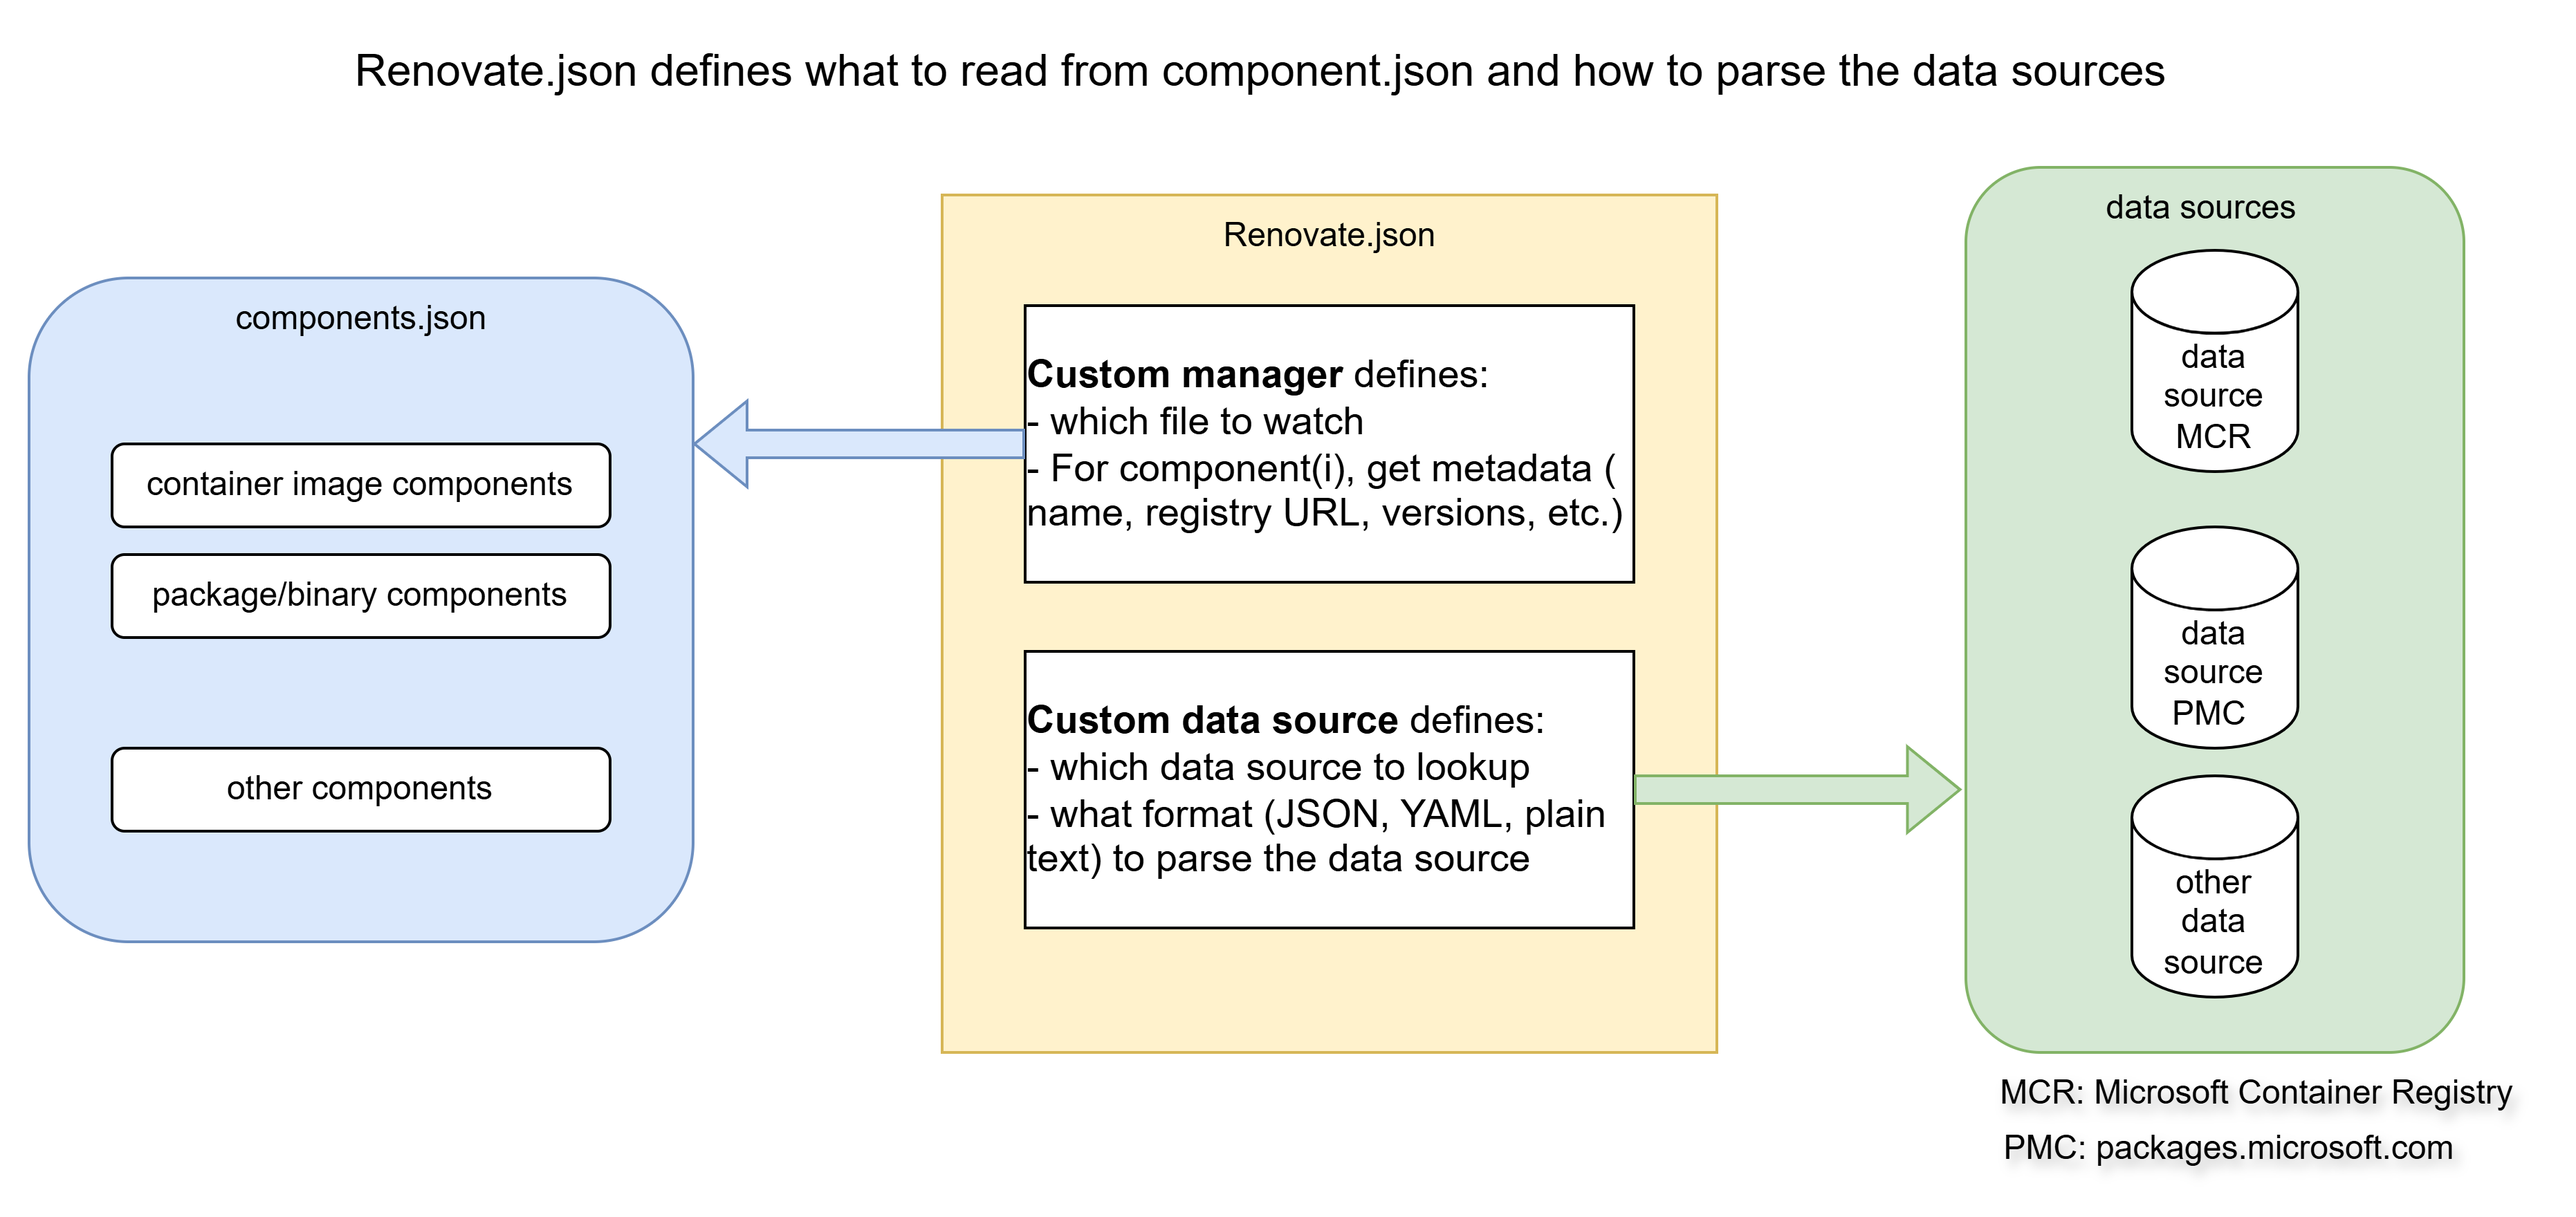
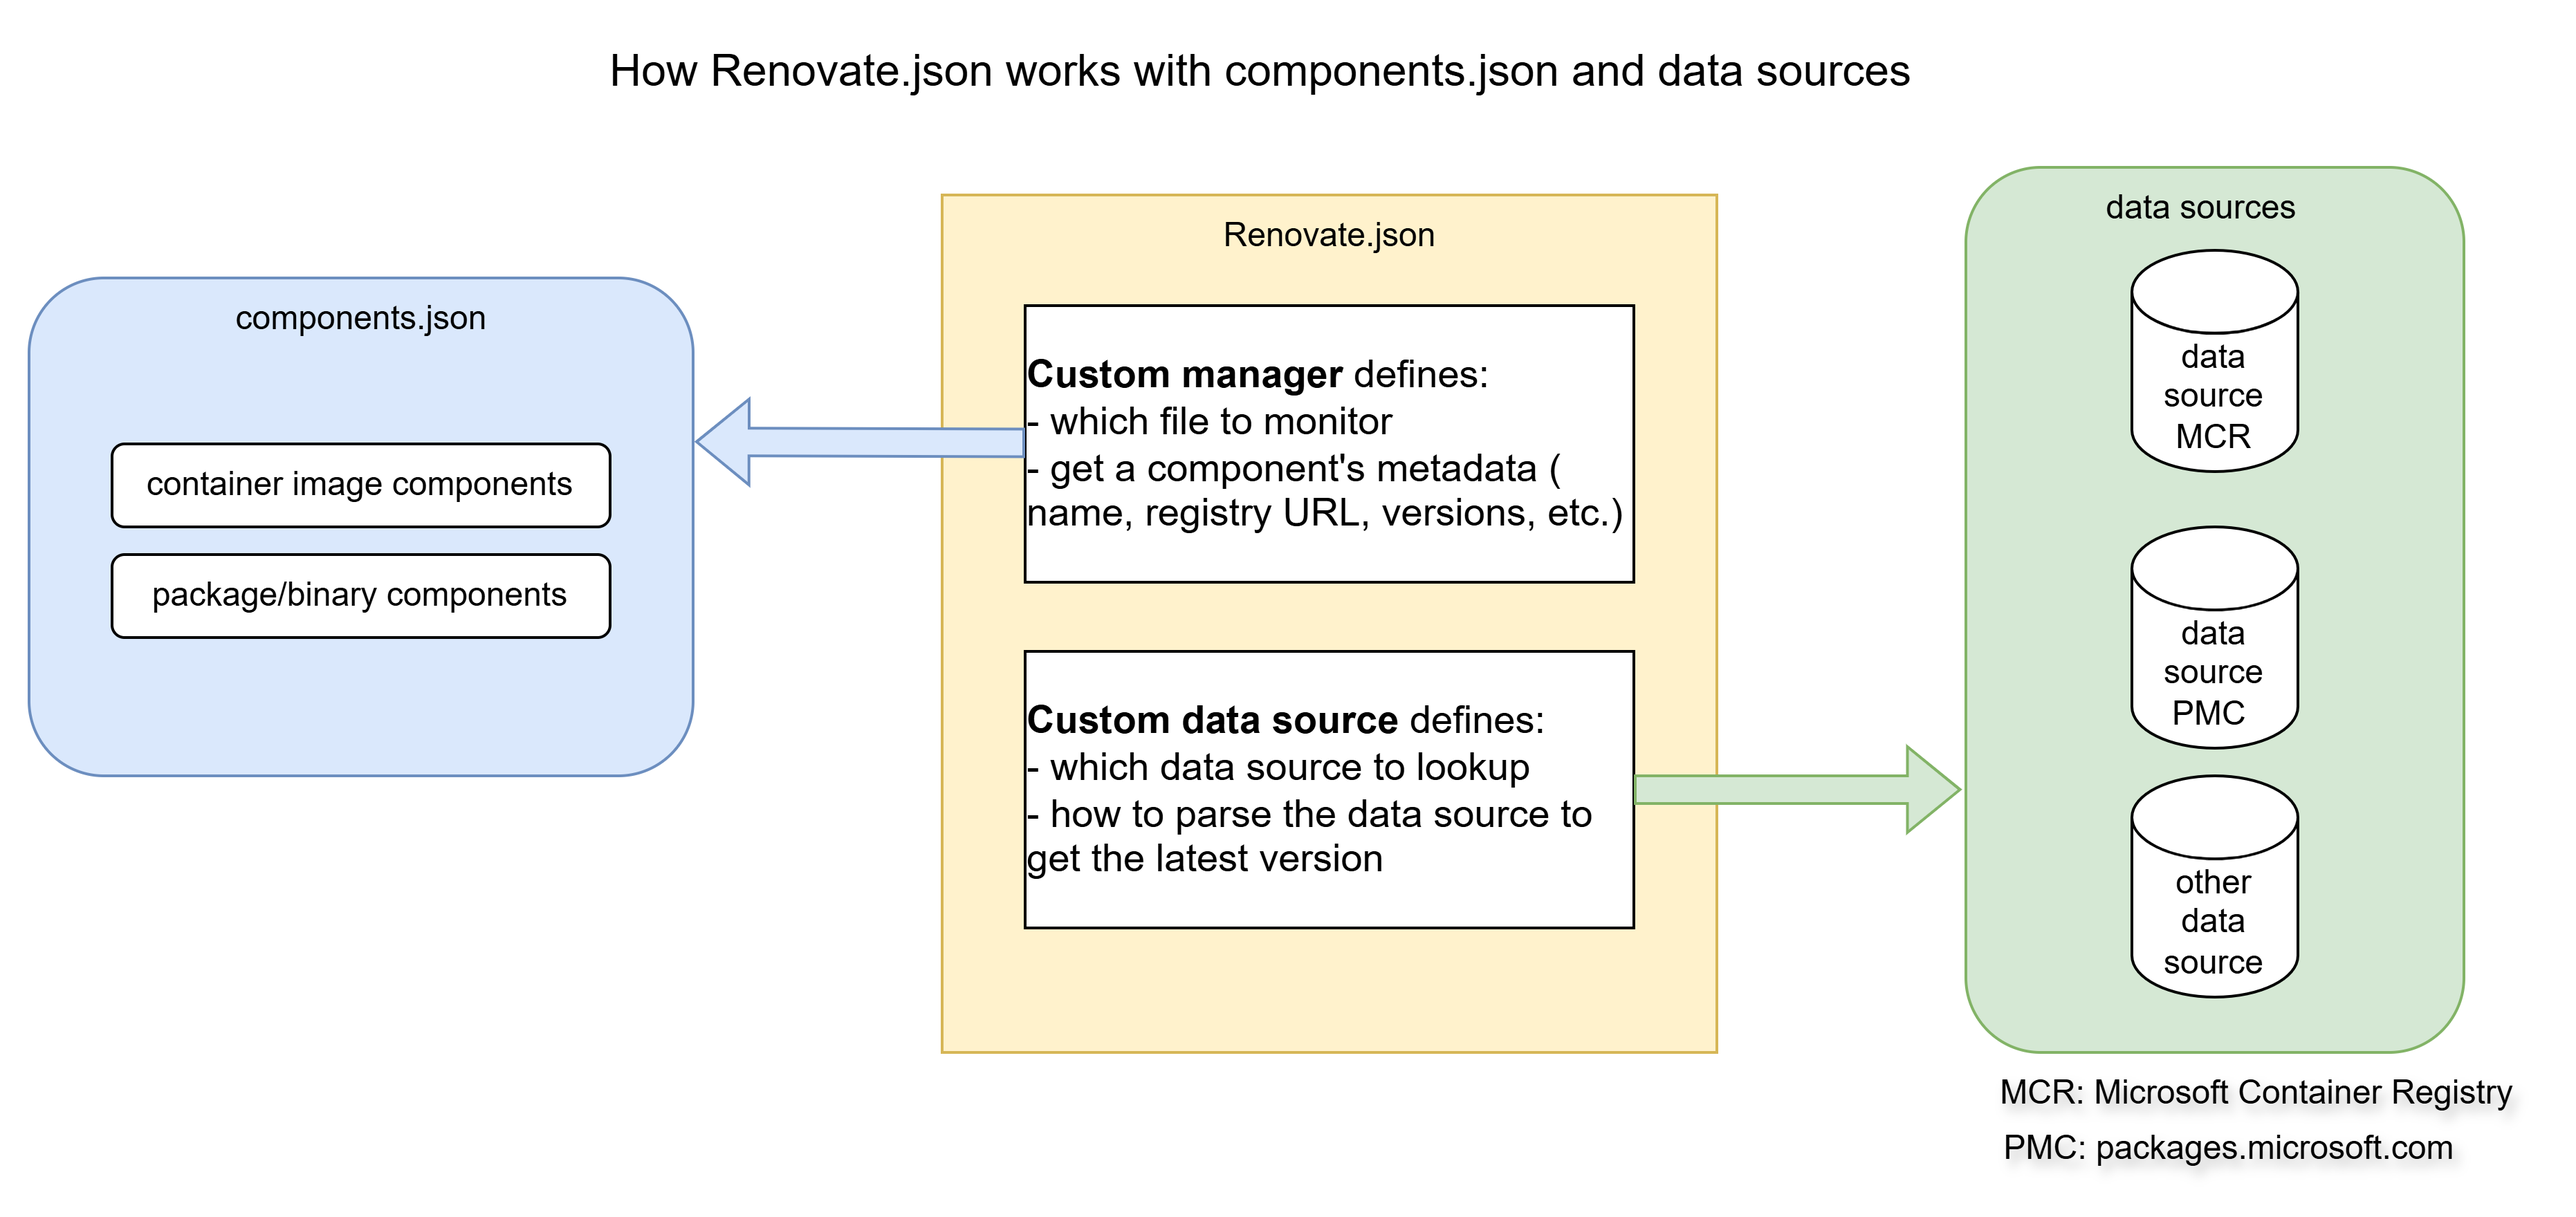
update readme and image

diff --git a/parts/linux/cloud-init/artifacts/README-COMPONENTS.md b/parts/linux/cloud-init/artifacts/README-COMPONENTS.md
@@ -8,10 +8,10 @@ The `components.json` file centralizes the management of all components needed f
 
 ## Schema of components.json
 The `components.json` file defines two types of components: `containerImages` and `packages`.
-- `ContainerImages` are container images that will be cached during VHD build time and will run at node provisioning time. The container Images URL are mostly mcr as of now June 2024.
+- `ContainerImages` are container images that will be cached during VHD build time and will run at node provisioning time. The container Images are all hosted in MCR as of Sept 2024.
 - `Packages` are packages that could be downloaded through apt-get (Ubuntu), http file download URL or dnf (Mariner). Additional methods such as OCI MCR could be added in the future.
 
-Please refer to [components.cue](../../../../schemas/components.cue) for the most update-to-date schema in case this doc is not current.
+Please refer to [components.cue](../../../../schemas/components.cue) for the most update-to-date schema in case the schema in this doc is not current.
 
 
 ### ContainerImages

diff --git a/.github/README-RENOVATE.md b/.github/README-RENOVATE.md
@@ -7,7 +7,7 @@ For a general Renovate introductions, please read this wiki. https://msazure.vis
 This readme file is specifically describing what the renovate.json for AgentBaker is doing and how to edit it when needed.
 There are 3 major blocks in the renovate.json configurations, namely `package rules`, `custom managers` and `custom datasources`.
 
-This diagram describes how Renovate.json is used to define how Renovate read the components metadata from components.json, as well as how it looks up various data sources.
+This diagram explains how `Renovate.json` defines the way Renovate reads the components metadata from `components.json`, and how it looks up various data sources.
 ![alt text](./images/Renovate_component_datasource.png)
 
 ## Package rules
